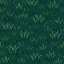
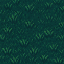
art: integrate softer grass ground family

diff --git a/src/world/grass/grassLayout.js b/src/world/grass/grassLayout.js
@@ -28,8 +28,8 @@ function createDistribution({ center, edgeSize }) {
     edgeSize,
     weights: {
       center: [88, 12, 0],
-      sides: [65, 25, 10],
-      edges: [56, 27, 17],
+      sides: [67, 24, 9],
+      edges: [59, 27, 14],
     },
   };
 }
